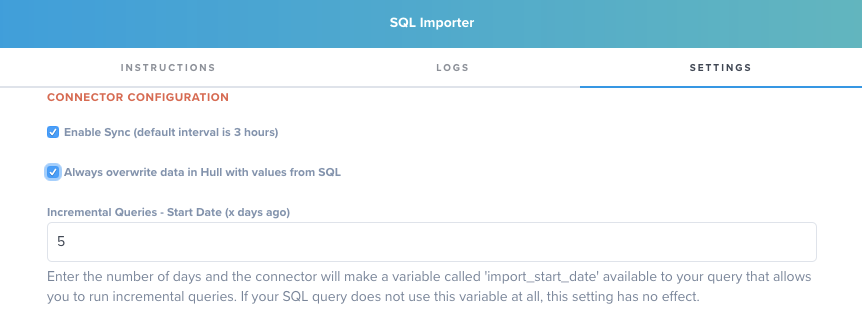
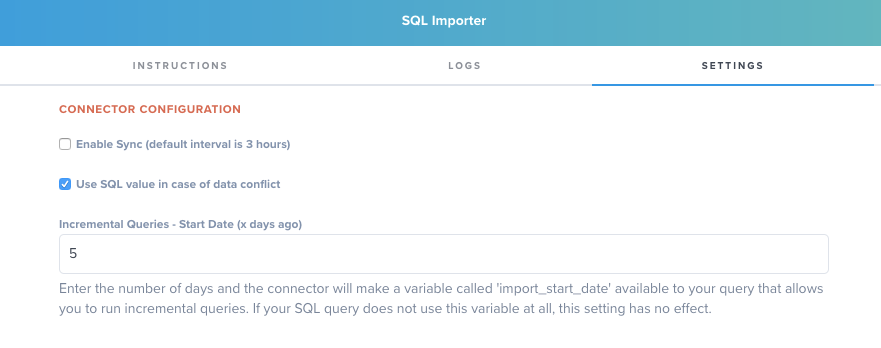
Upated instructions with latest screenshots and resolved data conflict labelling and default value

diff --git a/assets/readme.md b/assets/readme.md
@@ -36,8 +36,9 @@ Note: You can always manually run your query from the dashboard by clicking on t
 
 ## Define behavior in case of a data conflict
 
-A user profile in Hull is usually composed of data from a multitude of sources, so it is likely that you have already stored a value for a given trait and your SQL data source returns a different value. Let’s say you have already stored the phone number 123-444-6666 in the user profile for Brad Smith but your query returns the number 456-233-8899. This represents a typical data conflict and you can decide how the SQL connector shall resolve this conflict: either keep the number or overwrite it. By selecting **Always overwrite data in Hull with values from SQL** in the connector configuration section, you make the decision that your SQL data source is the leading system for the particular traits it returns:
+A user profile in Hull is usually composed of data from a multitude of sources, so it is likely that you have already stored a value for a given trait and your SQL data source returns a different value. Let’s say you have already stored the phone number 123-444-6666 in the user profile for Brad Smith but your query returns the number 456-233-8899. This represents a typical data conflict and you can decide how the SQL connector shall resolve this conflict: either keep the number or overwrite it. By selecting **Use SQL value in case of data conflict** in the connector configuration section, you make the decision that your SQL data source is the leading system for the particular traits it returns:
 ![Handle Data Conflicts](./docs/dataconflict01.png)
+Note: The default behavior is to use the SQL value in case of data conflict. This is consistent across all connectors in Hull.
 
 ## Query data that has changed in a given time period (Incremental Queries)
 
@@ -53,7 +54,3 @@ Please enter the number of days as integer or whole number. Fractional days are 
 - PostgreSQL
 - MySQL
 - Microsoft SQL
-
----
-
-If you have any questions or want to suggest improvements to our documentation, please [let us know](https://hull.io).
